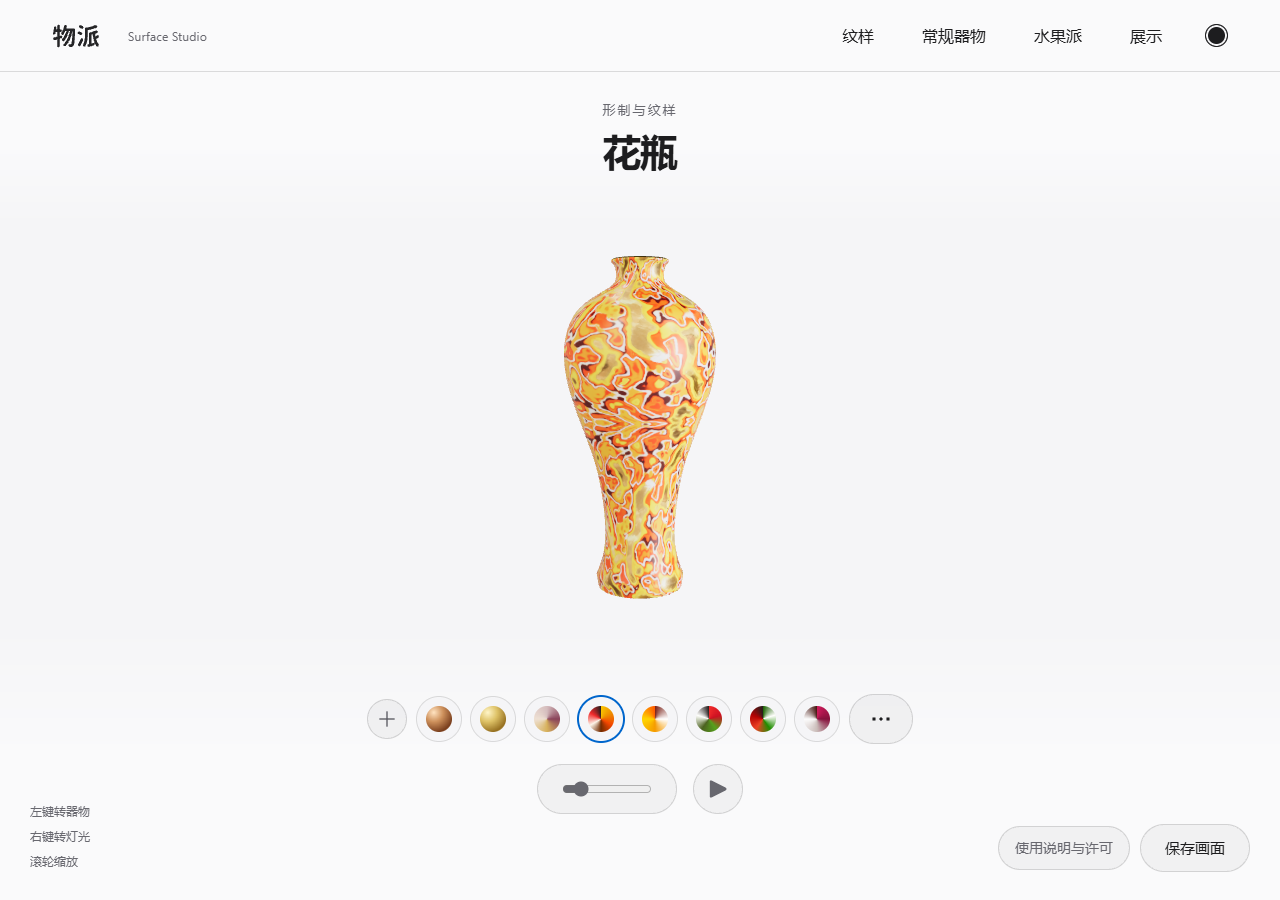
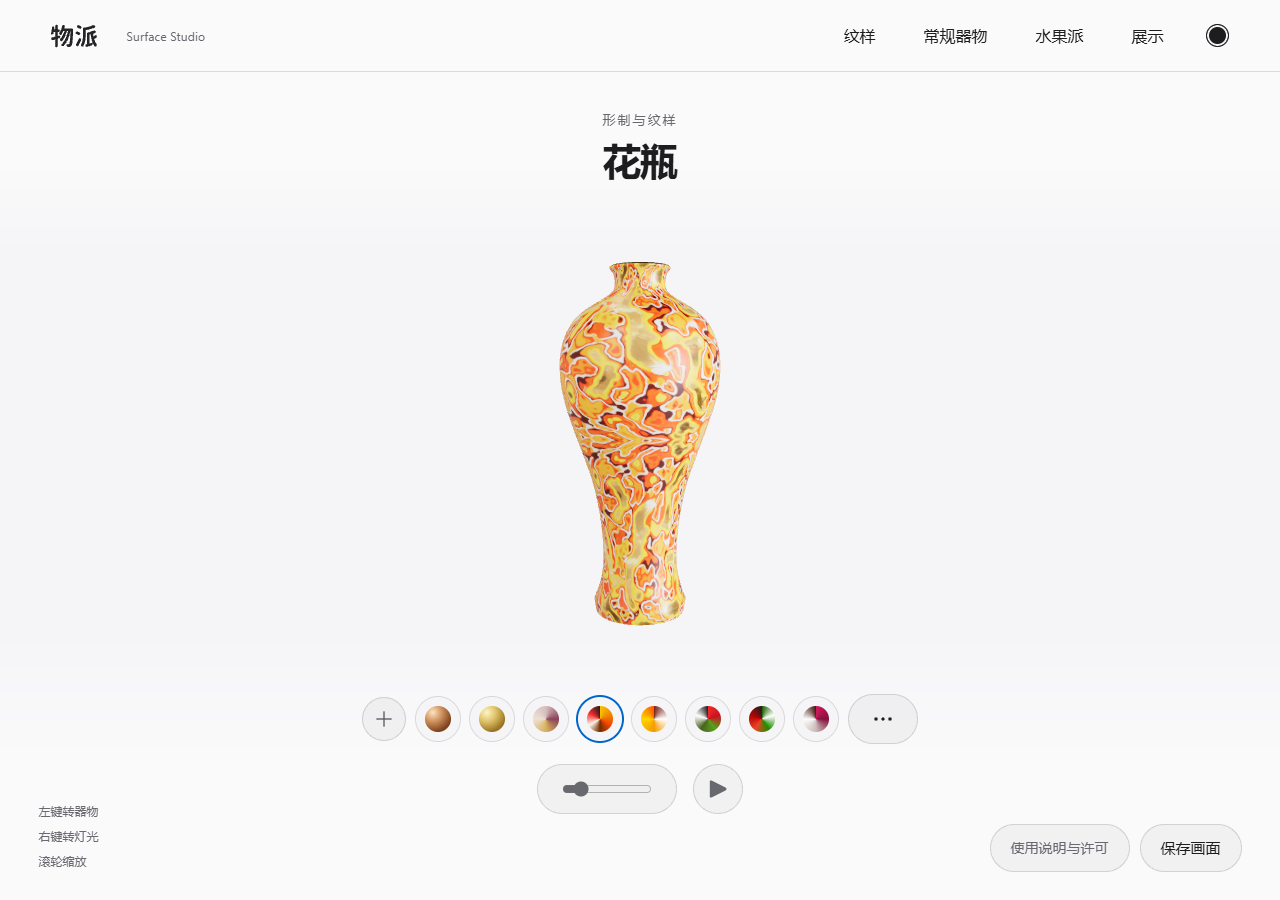
Adapt desktop layout and scene framing for 2K and variable windows

diff --git a/responsive.css b/responsive.css
@@ -1,0 +1,30 @@
+/* Desktop adaptation: bounded fluid sizing, full-width navigation, measured scene safe area. */
+@media(min-width:701px){
+ :root{--ui-unit:clamp(1px,.06510417vw,1.4px);--page-gutter:clamp(24px,3vw,88px);--navheight:calc(72 * var(--ui-unit))}
+ body{font-size:calc(15 * var(--ui-unit))}
+ .nav-inner{max-width:none;width:100%;padding:0 var(--page-gutter);gap:calc(24 * var(--ui-unit))}
+ .identity{gap:calc(16 * var(--ui-unit))}.brand-wordmark{width:calc(72 * var(--ui-unit));height:calc(30 * var(--ui-unit))}.identity span{font-size:calc(12 * var(--ui-unit))}
+ nav{gap:calc(12 * var(--ui-unit))}nav button{font-size:calc(16 * var(--ui-unit));min-height:calc(48 * var(--ui-unit));padding:calc(12 * var(--ui-unit)) calc(18 * var(--ui-unit));border-radius:calc(14 * var(--ui-unit))}
+ .theme-toggle{width:calc(48 * var(--ui-unit));height:calc(48 * var(--ui-unit));min-width:calc(48 * var(--ui-unit))!important;padding:0!important}.theme-toggle span{width:calc(23 * var(--ui-unit));height:calc(23 * var(--ui-unit))}
+ .exhibition-title{top:clamp(28px,4.2vh,70px)}.exhibition-title p{font-size:calc(13 * var(--ui-unit));margin-bottom:calc(8 * var(--ui-unit))}.exhibition-title h1{font-size:calc(38 * var(--ui-unit))}
+ .object-controls{gap:calc(20 * var(--ui-unit));bottom:calc(86 * var(--ui-unit))}
+ .quick-patterns{gap:calc(12 * var(--ui-unit))}.quick-patterns.vase-palette{gap:calc(10 * var(--ui-unit));max-width:min(calc(650 * var(--ui-unit)),calc(100vw - 2 * var(--page-gutter)))}
+ .quick-patterns .swatch,.vase-palette>.swatch,.vase-texture-popover>.swatch{width:calc(44 * var(--ui-unit));height:calc(44 * var(--ui-unit));min-width:calc(44 * var(--ui-unit));min-height:calc(44 * var(--ui-unit));border-width:calc(9 * var(--ui-unit))}
+ .quick-upload{width:calc(44 * var(--ui-unit));height:calc(44 * var(--ui-unit));min-width:calc(44 * var(--ui-unit));font-size:calc(26 * var(--ui-unit))}
+ .vase-more{height:calc(50 * var(--ui-unit));min-width:calc(64 * var(--ui-unit));font-size:calc(21 * var(--ui-unit));padding:0 calc(22 * var(--ui-unit));border-radius:calc(28 * var(--ui-unit))}
+ .playback-row{gap:calc(16 * var(--ui-unit))}.speed-control{height:calc(50 * var(--ui-unit));min-width:calc(138 * var(--ui-unit));padding:0 calc(24 * var(--ui-unit));border-radius:calc(28 * var(--ui-unit))}.speed-control input{width:calc(90 * var(--ui-unit))}.playback-button{width:calc(50 * var(--ui-unit));height:calc(50 * var(--ui-unit))}.play-icon{width:calc(28 * var(--ui-unit));height:calc(28 * var(--ui-unit))}
+ .gallery-console{right:var(--page-gutter);bottom:calc(28 * var(--ui-unit));gap:calc(10 * var(--ui-unit))}#capture,#help-open{min-height:calc(48 * var(--ui-unit));padding:calc(12 * var(--ui-unit)) calc(20 * var(--ui-unit));border-radius:calc(26 * var(--ui-unit))}#capture{font-size:calc(15 * var(--ui-unit))}#help-open{font-size:calc(14 * var(--ui-unit))}
+ .view-hint{left:var(--page-gutter);bottom:calc(30 * var(--ui-unit));font-size:calc(12 * var(--ui-unit));gap:calc(7 * var(--ui-unit))}
+ .object-story,.workbench,.view-panel,.fruit-panel,.appearance-panel{padding:calc(36 * var(--ui-unit)) var(--page-gutter) calc(40 * var(--ui-unit));max-height:calc(100dvh - var(--navheight) - 20px)}
+ .panel-close{right:var(--page-gutter);top:calc(18 * var(--ui-unit));width:calc(44 * var(--ui-unit));height:calc(44 * var(--ui-unit))}.panel-close .ui-icon{width:calc(24 * var(--ui-unit));height:calc(24 * var(--ui-unit))}
+ .fruit-panel h2,.view-panel h2,.appearance-panel h2{font-size:calc(30 * var(--ui-unit))}.object-story h2{font-size:calc(24 * var(--ui-unit))}.eyebrow,.section-heading,.micro{font-size:calc(13 * var(--ui-unit))}
+ .object-story>p:not(.eyebrow){font-size:calc(15 * var(--ui-unit));max-width:70ch}.object-story dl,.object-story a{font-size:calc(14 * var(--ui-unit))}
+ .fruit-collection,#built-in-objects{grid-template-columns:repeat(auto-fill,minmax(calc(120 * var(--ui-unit)),1fr));gap:calc(18 * var(--ui-unit))}.collection-item{font-size:calc(16 * var(--ui-unit));min-height:calc(164 * var(--ui-unit));gap:calc(12 * var(--ui-unit));padding:calc(18 * var(--ui-unit)) calc(12 * var(--ui-unit));border-radius:calc(20 * var(--ui-unit))}.collection-item img{width:calc(88 * var(--ui-unit));height:calc(100 * var(--ui-unit))}
+ .workbench,.object-story{column-gap:calc(64 * var(--ui-unit))}.dropzone{padding:calc(28 * var(--ui-unit));border-radius:calc(24 * var(--ui-unit))}.dropzone strong{font-size:calc(28 * var(--ui-unit))}.dropzone small{font-size:calc(13 * var(--ui-unit))}
+ .sample-row{gap:calc(14 * var(--ui-unit))}.sample-row .swatch{width:calc(44 * var(--ui-unit));height:calc(44 * var(--ui-unit));border-width:calc(8 * var(--ui-unit))}.slider-label,.field,.text-button{font-size:calc(15 * var(--ui-unit))}.lighting-heading h3{font-size:calc(17 * var(--ui-unit))}.lighting-heading button,.view-actions button,.finish-row button{font-size:calc(15 * var(--ui-unit));min-height:calc(44 * var(--ui-unit))}
+ .vase-texture-popover{width:calc(324 * var(--ui-unit));padding:calc(20 * var(--ui-unit));gap:calc(12 * var(--ui-unit));border-radius:calc(24 * var(--ui-unit))}.material-tooltip{font-size:calc(14 * var(--ui-unit));padding:calc(9 * var(--ui-unit)) calc(15 * var(--ui-unit))}
+ .export-menu{min-width:calc(176 * var(--ui-unit));border-radius:calc(18 * var(--ui-unit))}.export-menu button{font-size:calc(14 * var(--ui-unit));min-height:calc(44 * var(--ui-unit))}
+ .help-dialog{width:min(calc(860 * var(--ui-unit)),calc(100vw - 2 * var(--page-gutter)));height:min(calc(780 * var(--ui-unit)),calc(100dvh - 48px));border-radius:calc(28 * var(--ui-unit))}.help-heading{padding:calc(18 * var(--ui-unit)) calc(24 * var(--ui-unit))}.help-heading h2{font-size:calc(21 * var(--ui-unit))}.help-close{width:calc(44 * var(--ui-unit));height:calc(44 * var(--ui-unit))}.help-close .ui-icon{width:calc(24 * var(--ui-unit));height:calc(24 * var(--ui-unit))}.help-tabs{padding:0 calc(24 * var(--ui-unit)) calc(14 * var(--ui-unit))}.help-tabs button{min-height:calc(44 * var(--ui-unit));font-size:calc(15 * var(--ui-unit))}.help-body{padding:calc(12 * var(--ui-unit)) calc(30 * var(--ui-unit)) calc(30 * var(--ui-unit))}.help-body h1{font-size:calc(24 * var(--ui-unit))}.help-body h2{font-size:calc(19 * var(--ui-unit))}
+}
+@media(min-width:1600px) and (min-height:850px){.object-controls{bottom:calc(32 * var(--ui-unit))}}
+@media(min-width:701px) and (max-height:700px){:root{--ui-unit:1px;--navheight:64px}.exhibition-title{top:18px}.exhibition-title h1{font-size:30px}.object-controls{bottom:64px;gap:14px}.view-hint{font-size:11px;gap:4px}.help-dialog{height:calc(100dvh - 24px)}}

diff --git a/index.html b/index.html
@@ -1,5 +1,5 @@
 <!doctype html>
-<html lang="zh-CN" data-theme="light"><head><meta charset="utf-8"><meta name="viewport" content="width=device-width,initial-scale=1"><title>物派 · 数字博物馆</title><meta name="application-name" content="物派"><meta name="apple-mobile-web-app-title" content="物派"><link rel="icon" type="image/svg+xml" href="assets/branding/icon.svg"><link rel="icon" type="image/png" sizes="32x32" href="assets/branding/icon-32.png"><link rel="apple-touch-icon" sizes="180x180" href="assets/branding/icon-180.png"><link rel="stylesheet" href="product.css">
+<html lang="zh-CN" data-theme="light"><head><meta charset="utf-8"><meta name="viewport" content="width=device-width,initial-scale=1"><title>物派 · 数字博物馆</title><meta name="application-name" content="物派"><meta name="apple-mobile-web-app-title" content="物派"><link rel="icon" type="image/svg+xml" href="assets/branding/icon.svg"><link rel="icon" type="image/png" sizes="32x32" href="assets/branding/icon-32.png"><link rel="apple-touch-icon" sizes="180x180" href="assets/branding/icon-180.png"><link rel="stylesheet" href="product.css"><link rel="stylesheet" href="responsive.css">
 <script type="importmap">{"imports":{"three":"./vendor/package/build/three.module.js","three/addons/":"./vendor/package/examples/jsm/"}}</script>
 <script>if(location.protocol==='file:')location.replace('http://127.0.0.1:8765/');</script></head>
 <body><header id="site-header"><div class="nav-inner"><a class="identity" href="./" aria-label="物派"><img class="brand-wordmark" src="assets/branding/wordmark.svg" alt="物派"><span>Surface Studio</span></a><nav aria-label="主菜单"><button id="lab-toggle" aria-expanded="false" aria-controls="workbench">纹样</button><button id="about-toggle" aria-expanded="false" aria-controls="story-panel">常规器物</button><button id="fruit-toggle" aria-expanded="false" aria-controls="fruit-panel">水果派</button><button id="view-toggle" aria-expanded="false" aria-controls="view-panel">展示</button><button id="theme-toggle" class="theme-toggle" aria-label="切换为深色" aria-pressed="false"><span aria-hidden="true"></span></button></nav></div></header><button id="drawer-shade" aria-label="关闭菜单" hidden></button><main id="gallery"><section class="exhibition"><div class="stage" id="stage"><div id="viewport" aria-label="三维器物，左键旋转器物，右键旋转灯光，滚轮缩放"></div>

diff --git a/docs/superpowers/plans/2026-10-20-responsive-desktop.md b/docs/superpowers/plans/2026-10-20-responsive-desktop.md
@@ -1,0 +1,18 @@
+# V1.1.2桌面分辨率适配 Implementation Plan
+
+> **For agentic workers:** REQUIRED SUB-SKILL: Use superpowers:executing-plans task-by-task.
+
+**Goal:** 2K大窗口中导航、控件和面板适度放大并向两侧布局，标题和模型中心下移，保留手机与普通窗口可用性。
+**Architecture:** 独立responsive.css管理桌面尺寸变量；相机安全区根据标题和底部控制实际边界计算，不依赖parseFloat解析CSS表达式。窗口变化不重置模型姿态和缩放。
+**Tech Stack:** 原有CSS、Three.js、Node与Playwright。
+**Spec:** 用户2026-10-20要求，进入V1.1.2；V1.1.1文档许可发行继续独立完成。
+
+- [x] 先加入多窗口浏览器测试与安全区单元测试，验证现有大窗口固定UI问题。
+- [x] 实现桌面流体尺寸、全宽导航、下移标题与控制台、可伸展面板和说明窗口。
+- [x] 实际测量相机安全区，按可用空间取景，不在resize时重置朝向或缩放。
+- [x] 覆盖1280/1920/2048/2560/3840宽窗口、矮屏、手机，审查2K截图及菜单、导入导出、帮助。
+- [ ] 更新V1.1.2日志、手册和发行包并验证发布。
+
+Constraints: 所有图标和短文字居中；统一圆角磨砂；无箭头；固定缩略图；四ZIP+APK+SHA；原安卓标识与签名保留。常规清理不得影响原功能。
+
+Verified: 26 unit tests and full browser regression passed, 2K light/dark and popup bounds verified, resize retains exact quaternion and camera position. Independent reviewer found no actionable issue. V1.1.1 released with six attachments and digests verified. Offline/native checks and V1.1.2 release pending.

diff --git a/README.md b/README.md
@@ -5,7 +5,7 @@
 
 物派是一款离线三维器物工作室，提供花瓶与11个水果器型、本地图片及模型导入、纹样与灯光调节、PNG与GLB导出。无需账户，资源随发行包提供。
 
-**V1.1.1 · CHAMBER · 个人非商业使用免费，商业使用须另行书面授权。** 本项目公开可见，但不采用开源许可。内置模型与纹样仅供个人体验，导出不等于取得商用权限。
+**V1.1.2 · CHAMBER · 个人非商业使用免费，商业使用须另行书面授权。** 本项目公开可见，但不采用开源许可。内置模型与纹样仅供个人体验，导出不等于取得商用权限。
 
 ![物派浅色界面](docs/images/wupai-main.png)
 
@@ -39,6 +39,7 @@ Windows和Linux包内的 `Backup-HTML/Wupai.html` 是备用网页。iPhone没有
 - 器型、纹样、纯铜与仿金表面预览；各对象与纹样分别记忆密度。
 - 本地PNG、JPG、WebP与自包含GLB、GLTF、STL导入；无UV模型可使用空间投射。
 - 自由旋转、自动旋转、浅深主题、灯光调节与原版预设回退。
+- 桌面流体布局与2K适配：导航向两侧展开、控件适度放大，模型根据界面占用空间取景；调整窗口保留姿态和缩放。
 - PNG画面、连续纹样PNG和带当前可导出效果的GLB导出。
 - 固定缩略图、复用着色程序与近期模型缓存，减少切换的重复工作。
 

diff --git a/docs/releases/V1.1.2.md b/docs/releases/V1.1.2.md
@@ -1,0 +1,20 @@
+# 物派 V1.1.2
+
+本版优化桌面多分辨率，重点适配2560×1440，并继续包含V1.1.1的使用说明与许可。
+
+- 大窗口中导航向两侧展开，字体、按钮、纹样球、卡片与面板适度放大，上限受控。
+- 标题与大窗口底部控制区下移，模型展示中心随实际UI位置调整；默认取景按模型尺寸和可用空间适配。
+- 手动调整窗口保留旋转姿态与缩放，只有重置视角或切换器型时重新取景。
+- 帮助、导出、更多纹样、灯光和导入面板同步适配；保留小窗口、较矮窗口与手机布局。
+
+## 下载
+
+Windows选Desktop.zip运行物派.exe；Linux选Linux.zip执行sh Launch.sh；安卓安装APK；iPhone沿用HTML与Models内USDZ，无IPA。四个平台ZIP、直接APK与SHA256SUMS.txt共六个手动附件。
+
+## 说明与许可
+
+“保存画面”旁可离线查看正式使用手册、许可、隐私及第三方声明。仅允许个人非商业使用，商业使用与内置模型、纹样的商业利用须事先书面授权。
+
+CHAMBER · 97101yy@gmail.com · 保留所有权利。
+
+完整手册：https://github.com/hindingonhome/wupai/blob/V1.1.2/PRODUCT_README.md

diff --git a/PRODUCT_README.md b/PRODUCT_README.md
@@ -1,6 +1,6 @@
 # 物派使用手册
 
-适用版本：V1.1.1 · 文档更新：2026-10-20
+适用版本：V1.1.2 · 文档更新：2026-10-20
 
 物派是一款在本地查看器物模型、尝试纹样与铜漆效果的三维工作室。当前包含花瓶及11个水果器型，支持导入自己的图片和模型、调节纹样与灯光、保存图片和导出模型。无需账户。
 
@@ -26,6 +26,8 @@
 - 桌面菜单可悬停或点击，手机点击打开。弹层可通过关闭按钮或 Escape 关闭。
 
 ## 3. 观察器物
+
+桌面界面会随窗口宽高适度调整，2K等大窗口中导航向两侧展开，文字与控件放大，标题和展示中心下移。手动调整窗口不重置当前姿态或缩放；点击“重置视角”可按当前可用空间重新取景。
 
 - 鼠标左键拖动旋转器物，右键拖动调整灯光方向，滚轮缩放。
 - 触屏单指拖动旋转，双指捏合缩放。

diff --git a/AGENTS.md b/AGENTS.md
@@ -29,3 +29,5 @@
 - 品牌为物派：使用 assets/branding 中已放大的源泉圆体轮廓，不依赖系统字体。Windows 提供便携 EXE，Linux 提供 AppImage，HTML 是备选；Android 保留原应用 ID 与签名，iPhone 保留网页和模型包。
 
 - V1.1.1起采用用户确认的专有个人非商业许可，商业使用与内置素材商业利用须CHAMBER另行书面授权。不得擅改为开源或免费商用。正式手册、许可、隐私及第三方声明由scripts/prepare-help.cjs生成离线帮助；修改源文档后重新生成，保持各平台一致。
+
+- 桌面分辨率适配由responsive.css和layout.mjs统一维护：控件有上限地随窗口放大，导航向两侧展开，相机根据标题与控制区实际边界取景；resize不重置姿态或缩放。优先回归2560×1440及小窗口，不把全局缩放或固定2K坐标当适配。

diff --git a/CHANGELOG.md b/CHANGELOG.md
@@ -1,3 +1,11 @@
+# V1.1.2 · 2026-10-20
+
+- 优化桌面多分辨率，特别是2560×1440：流体字号与控件尺寸、全宽导航及两侧留白。
+- 下移大窗口标题和底部控制区，按实际UI边界计算模型展示中心；默认取景按模型尺寸适配，调整窗口不重置手动姿态或缩放。
+- 材质面板、系列卡片、灯光、帮助与导出菜单同步适配大窗口，保留矮屏及手机布局。
+- 增加1280/1920/2048/2560/3840宽度、小窗口、弹层边界及姿态保持回归检查。
+- 延续V1.1.1正式手册与非商业许可，维持四个平台ZIP、直接APK与校验表。
+
 # V1.1.1 · 2026-10-20
 
 - 新增应用内离线“使用说明与许可”，支持桌面、触屏、键盘及焦点返回。

diff --git a/docs/PRIVACY.md b/docs/PRIVACY.md
@@ -1,6 +1,6 @@
 # 隐私与本地数据说明
 
-更新日期：2026-10-20；适用版本：V1.1.1。
+更新日期：2026-10-20；适用版本：V1.1.1及V1.1.2。
 
 ## 本地处理
 
